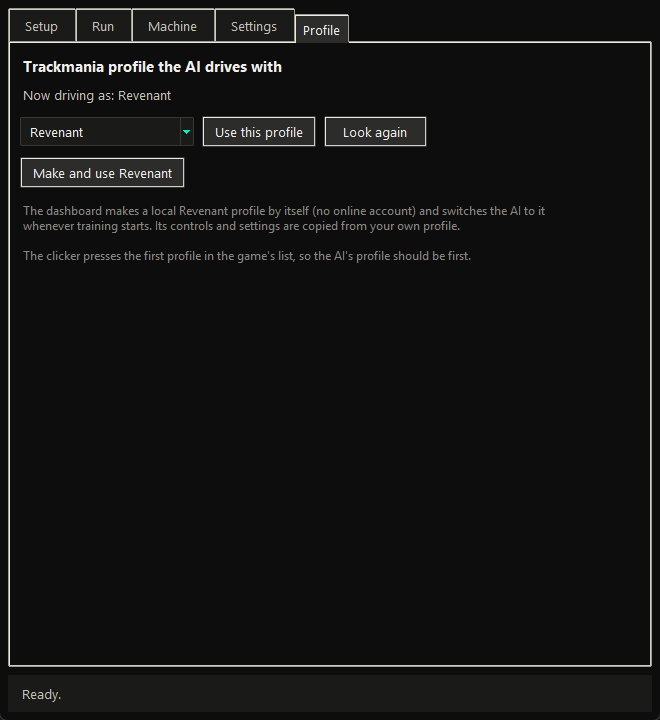
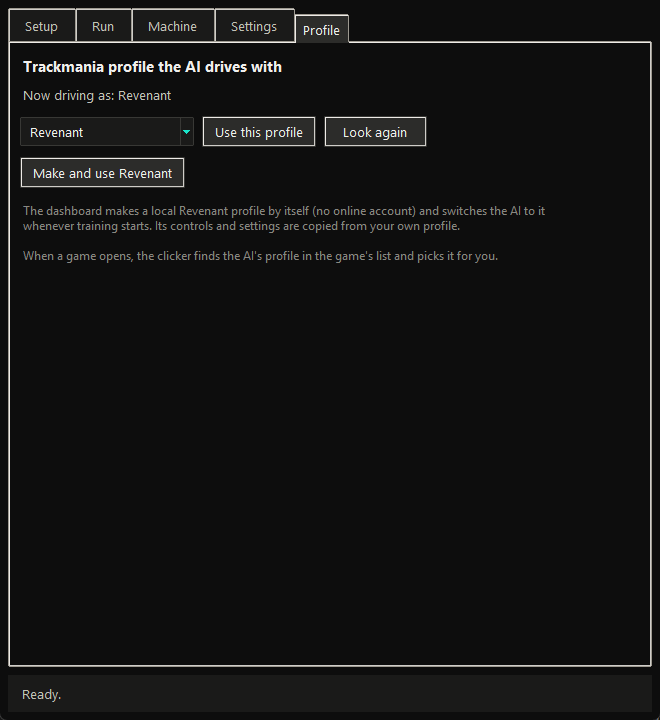
Fix the profile tab text about the clicker

Changed region(s): [[0.0303, 0.3361, 0.7576, 0.3667]]

diff --git a/control_window.py b/control_window.py
@@ -431,7 +431,7 @@ class ControlWindow:
         help_text = (
             f"The dashboard makes a local {controls.AI_PROFILE} profile by itself (no online account) and switches the AI to it "
             "whenever training starts. Its controls and settings are copied from your own profile.\n\n"
-            "The clicker presses the first profile in the game's list, so the AI's profile should be first."
+            "When a game opens, the clicker finds the AI's profile in the game's list and picks it for you."
         )
         help_label = self.label(tab, help_text, 9, self.c["muted"])
         help_label.config(wraplength=540)
